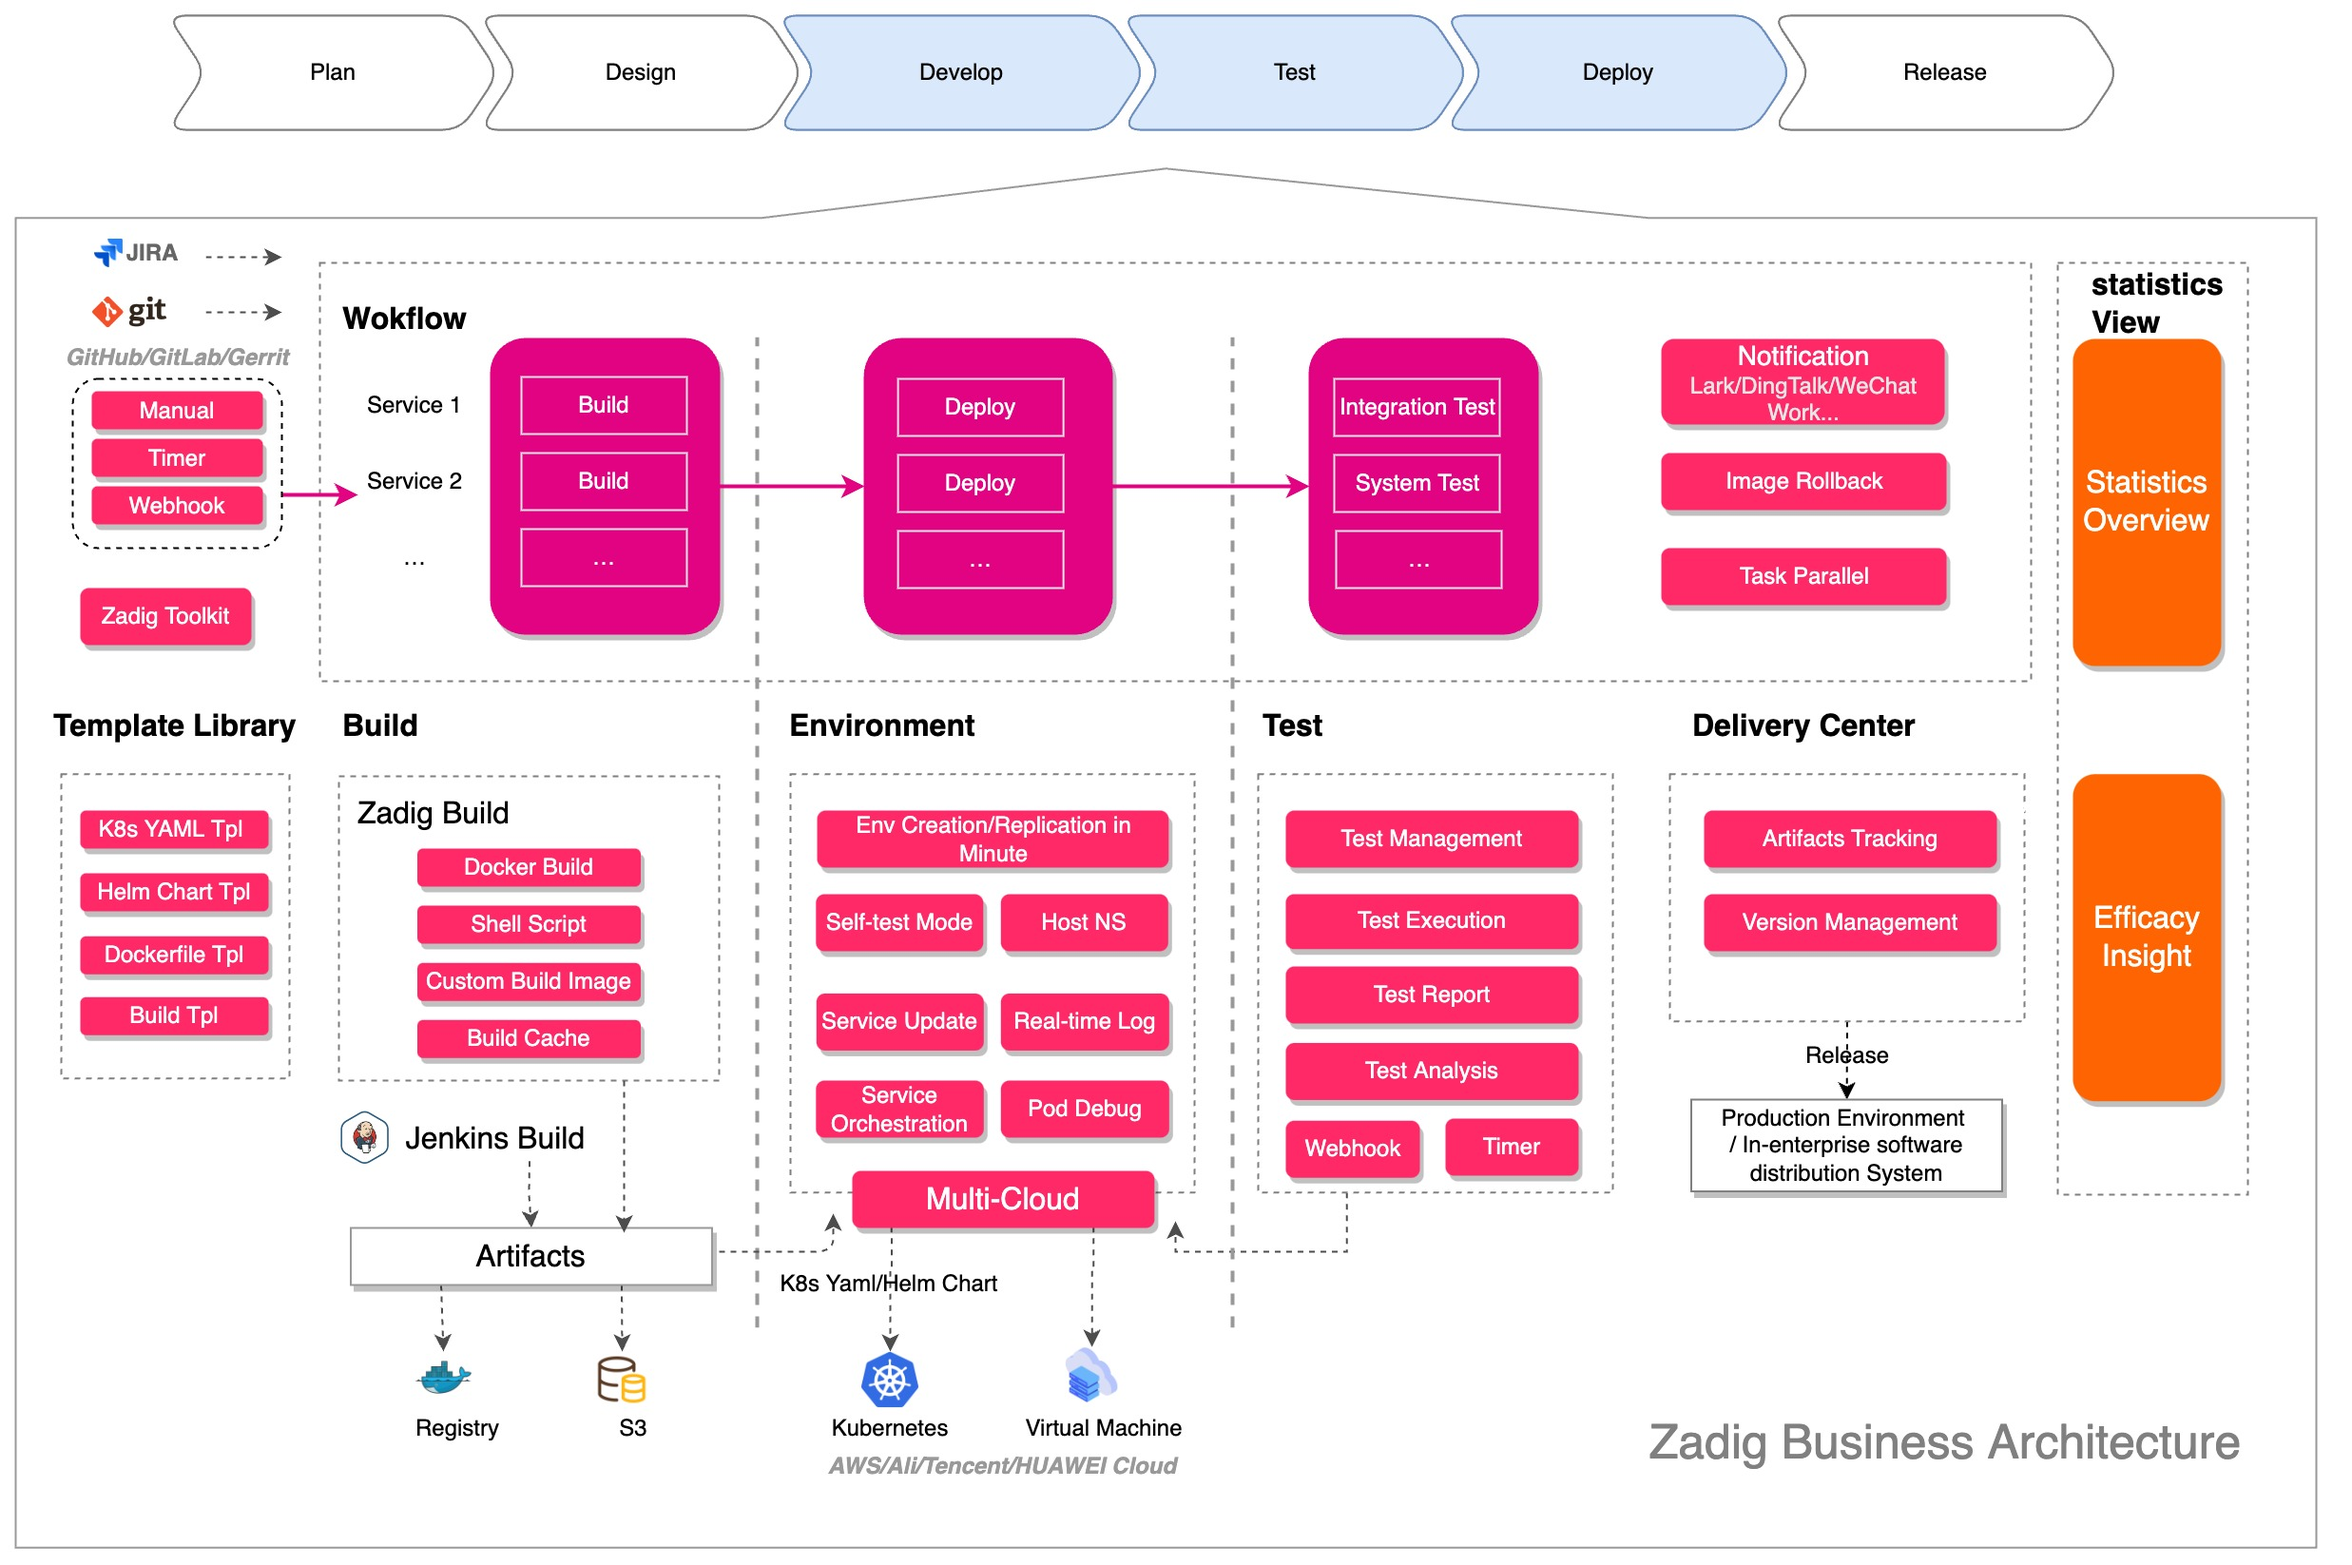
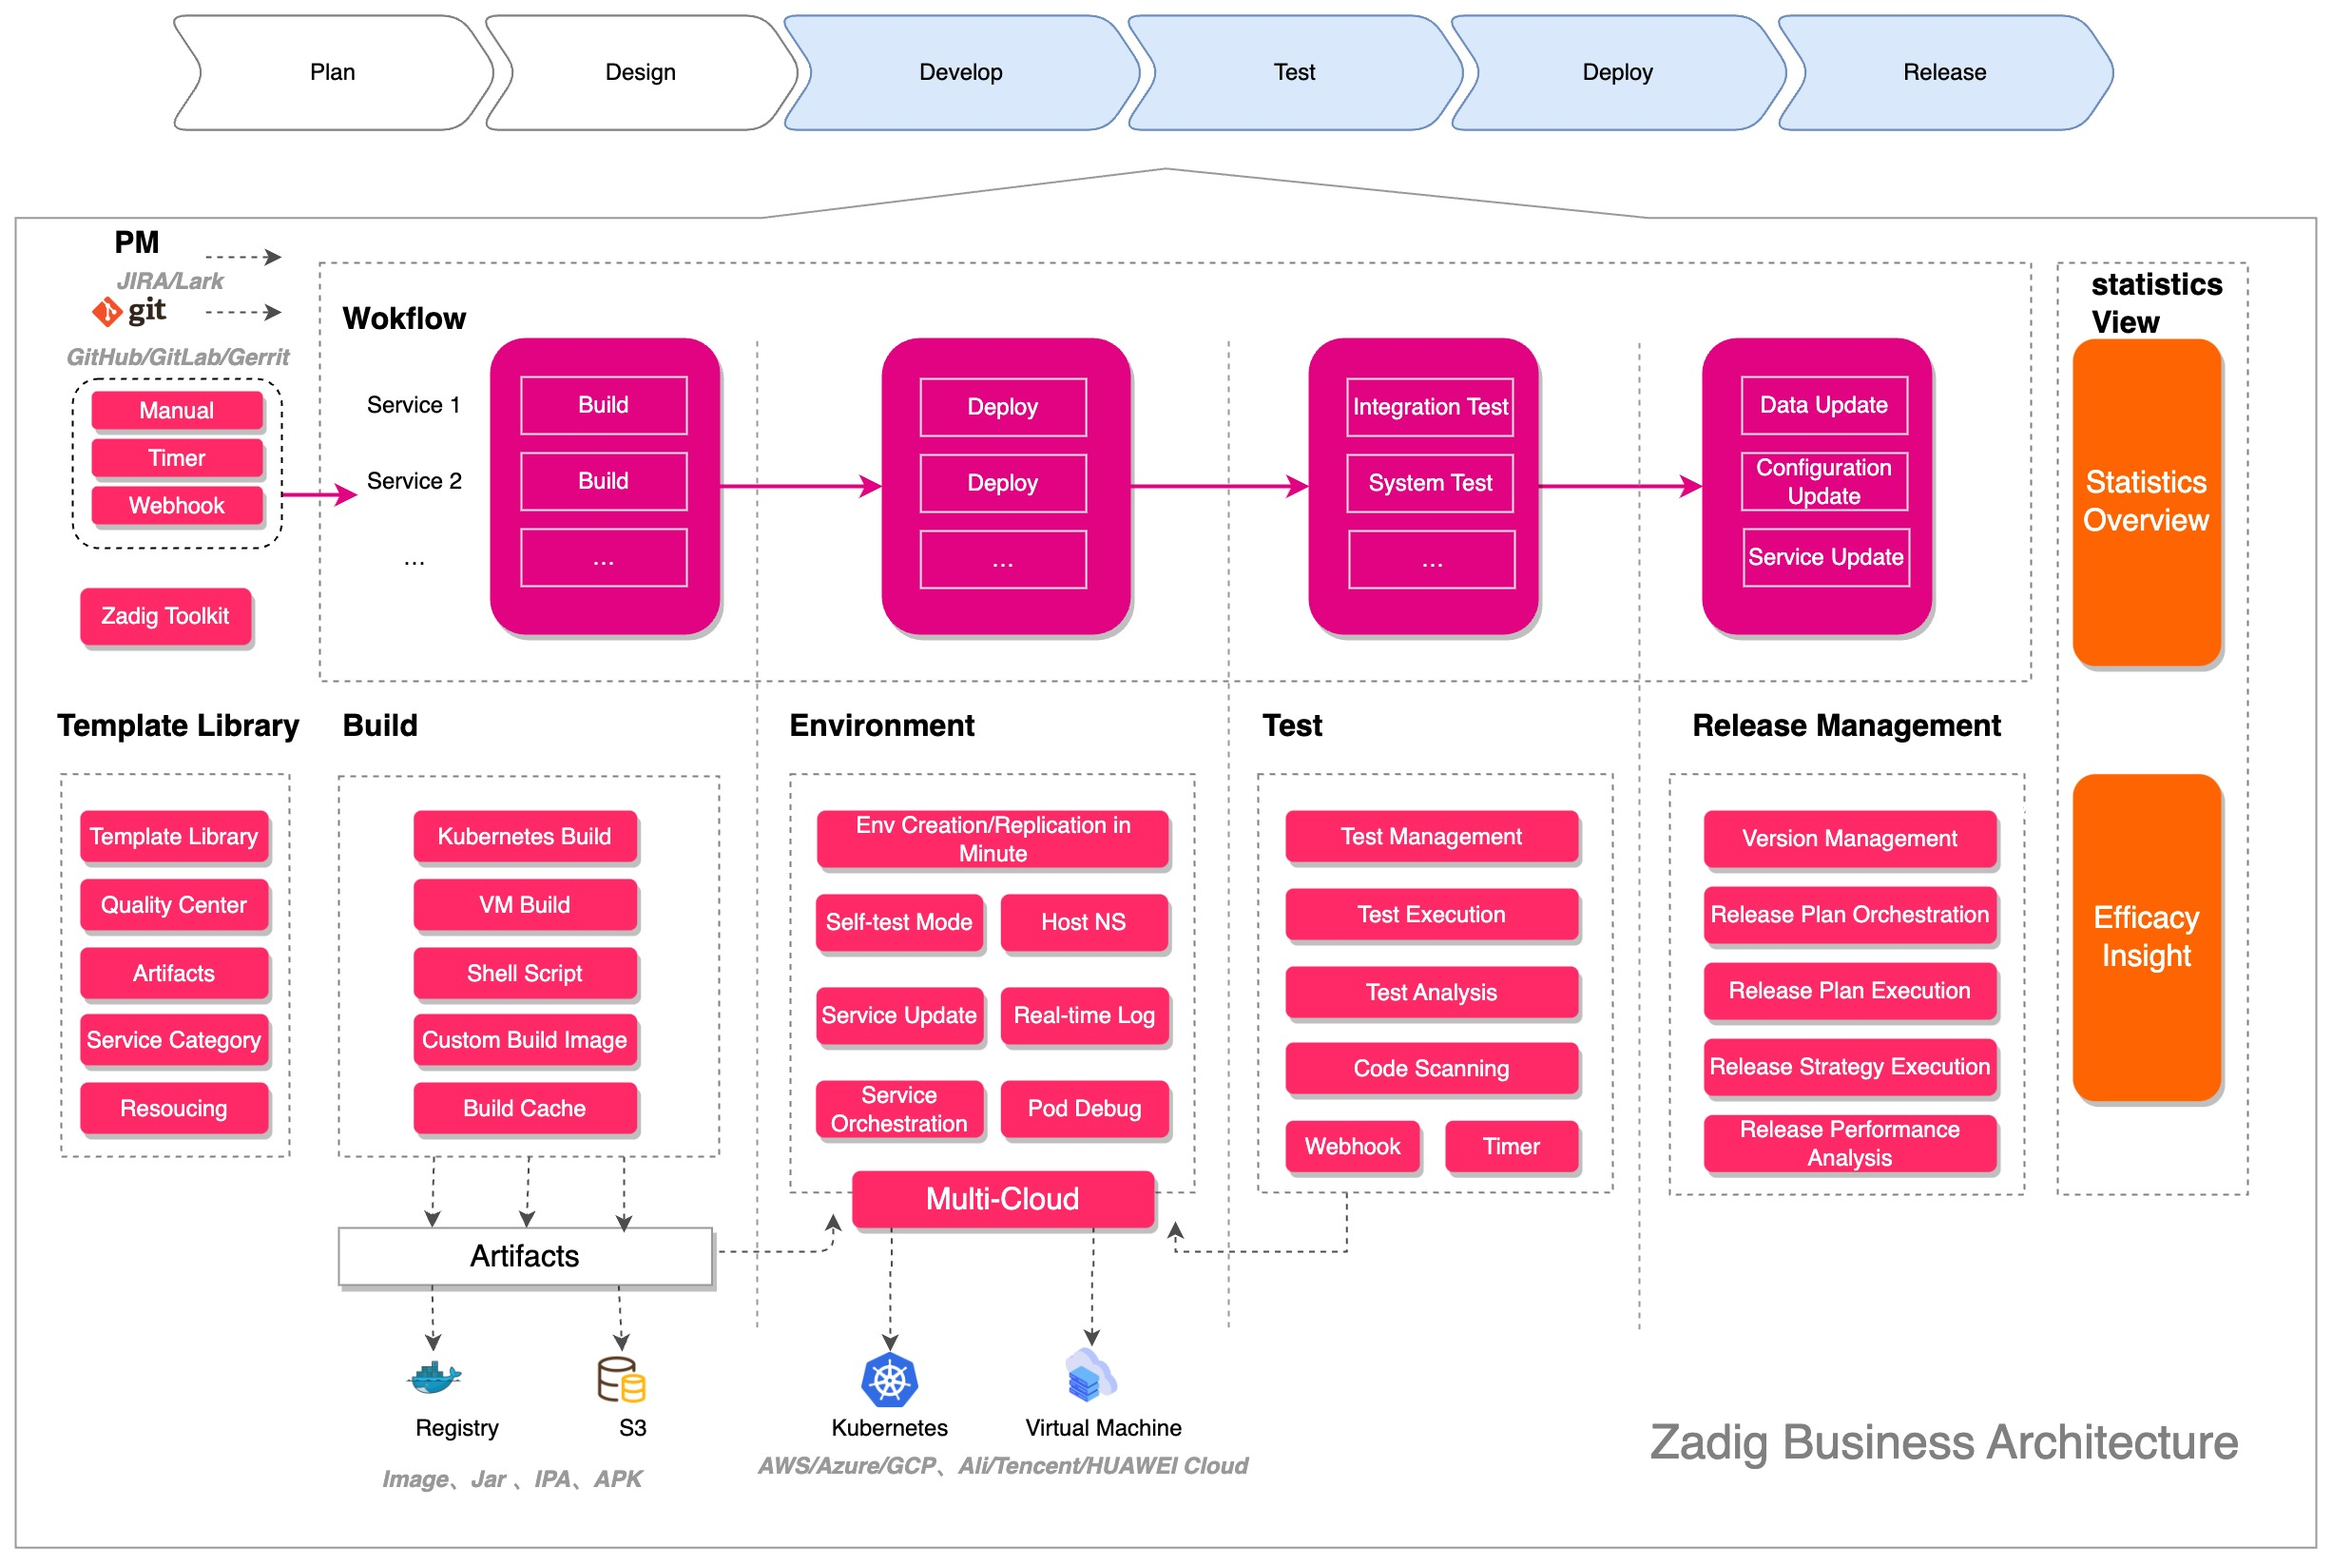
modify README

diff --git a/README.md b/README.md
@@ -37,9 +37,10 @@
 
 ## What is Zadig
 
-Zadig is an open-source, distributed, cloud-native CD (Continuous Delivery) product designed for developers. Zadig not only provides high-availability CI/CD capabilities, but also provides cloud-native operating environments, supports developers' local debugging, parallel build and deployment of microservices, integration testing, etc. .
+Zadig is a self-service, cloud-native DevOps platform based on Kubernetes developed by KodeRover. Zadig is available in Basic and Professional editions, and offers flexible and scalable workflow support, multiple release policy orchestration, and one-click security auditing. The platform also supports customized enterprise XOps agile performance dashboards, deep integration with multiple enterprise platforms, and rapid batch access through project templating to achieve one-click governance of thousands of services.
 
-Zadig is non-invasive, it does not exclude any of your existing development process. Instead it can easily integrate with Github/Gitlab, Jenkins and many other cloud vendors in a seamless way. We strive for the 10x optimal developer experience with the lowest maintenance cost possible.
+Its main goal is to help enterprises realize the digital transformation of production and research, enable engineers to become innovation engines, and provide support for the unlimited value links of the digital economy.
+
 
 > Our vision is: Developer + Zadig = Business success
 
@@ -69,6 +70,26 @@ The Highlighted Features:
   Zadig can easily and non-intrusively embed existing testing automation frameworks, and achieve continuous building, testing and deployment via GitHub/GitLab Webhook.
 
   It also integrates with productivity bots to provide instant quality report, which effectively applies shift-left testing best practices.
+  </details>
+
+<details>
+  <summary><b>Powerful Template Library</b></summary>
+  Shared K8s YAML templates, Helm Chart templates, build templates, etc., across projects to achieve unified configuration management. Based on a set of templates, hundreds of microservices can be created, and with minimal configuration by development engineers, self-service usage is enabled, significantly reducing the burden of operations and maintenance management.
+  </details>
+
+<details>
+  <summary><b>Secure and Reliable Release Management</b></summary>
+  Customized workflows that integrate engineer, process, and internal and external system compliance approvals, supporting flexible orchestration of deployment strategies such as blue-green deployment, canary release, phased gray release, and Istio release. Presenting the state of the production environment from a multi-cluster, multi-project perspective, it achieves transparency and reliability in the release process.
+  </details>
+
+<details>
+ <summary><b>Stable and Efficient Customer Delivery</b></summary>
+  Simplify the implementation process for vendors to customer versions, customer private clouds, public clouds, and offline environments, as well as product license management. The supplier management plane collaborates with the customer console to complete the implementation, update, and maintenance process for customer environments, enhancing the quality of external services provided by the enterprise.
+ </details>
+
+<details>
+  <summary><b>Objective and Accurate Performance Insights</b></summary>
+  Comprehensive understanding of the system's operational status, including data overviews on clusters, projects, environments, workflows, and key process pass rates. It provides objective performance metrics data for various aspects like builds, tests, and deployments at the project level, enabling precise analysis of development efficiency bottlenecks and promoting steady improvement.
   </details>
 
 <details>

diff --git a/README-zh-CN.md b/README-zh-CN.md
@@ -1,6 +1,6 @@
 <p><a href="https://github.com/koderover/zadig-doc" target="_blank" rel="noopener noreferrer"><img height="50" src="https://docs.koderover.com/zadig/img/zadig.png" alt="Zadig logo"></a></p>
 
-<h3 align="left">开源分布式持续交付产品</h3>
+<h3 align="left">面向开发者自助式云原生 DevOps 平台</h3>
 
 <span align="left">
 
@@ -36,7 +36,7 @@
 
 ## Zadig 介绍
 
-Zadig 是 KodeRover 公司基于 Kubernetes 自主设计、研发的开源分布式持续交付 (Continuous Delivery) 产品，具备灵活易用的高并发工作流、面向开发者的云原生环境、高效协同的测试管理、强大免运维的模板库、客观精确的效能洞察以及云原生 IDE 插件等重要特性，为工程师提供统一的协作平面。Zadig 内置了 K8s YAML、Helm Chart、主机等复杂场景最佳实践，适用大规模微服务、高频高质量交付等场景。我们的目标是通过云原生技术的运用和工程产品赋能，打造极致、高效、愉悦的开发者工作体验，让工程师成为企业创新的核心引擎。
+Zadig 是由 KodeRover 公司基于 Kubernetes 研发的自助式云原生 DevOps 平台。Zadig 分为基础版和专业版，提供灵活可扩展的工作流支持、多种发布策略编排以及一键安全审核等特性。该平台还支持定制的企业级 XOps 敏捷效能看板，深度集成多种企业级平台，并通过项目模板化批量快速接入，实现数千个服务的一键纳管治理。其主要目标是帮助企业实现产研的数字化转型，使工程师成为创新引擎，并为数字经济的无限价值链接提供支持。
 
 
 我们的愿景：`工程师 + Zadig = 商业上的成功`
@@ -64,17 +64,27 @@ Zadig 是 KodeRover 公司基于 Kubernetes 自主设计、研发的开源分布
   便捷对接 Jmeter、Pytest 等主流测试框架，跨项目管理和沉淀 UI、API、E2E 测试用例资产。通过工作流，向开发者提供前置测试验证能力。通过持续测试和质量分析，充分释放测试价值。
   </details>
 
-  <details>
+<details>
   <summary><b>强大免运维的模板库</b></summary>
   跨项目共享 K8s YAML 模板、Helm Chart 模板、构建模板等，实现配置的统一化管理。基于一套模板可创建数百微服务，开发工程师少量配置可自助使用，大幅降低运维管理负担。
   </details>
 
-  <details>
+<details>
+  <summary><b>安全可靠的发布管理</b></summary>
+  自定义工作流打通人、流程、内外部系统合规审批，支持灵活编排蓝绿、金丝雀、分批次灰度、Istio 等发布策略。通过多集群、多项目视角呈现生产环境的状态，实现发布过程的透明可靠。
+  </details>
+
+<details>
+ <summary><b>稳定高效的客户交付</b></summary>
+  简化供应商对客户版本、客户私有云、公有云、离线环境的产品实施过程以及产品许可证的管理。供应商管理平面联动客户控制台完成对客户环境实施、更新、维护过程，提升企业对外服务质量。
+ </details>
+
+<details>
   <summary><b>客观精确的效能洞察</b></summary>
   全面了解系统运行状态，包括集群、项目、环境、工作流，关键过程通过率等数据概览。提供项目维度的构建、测试、部署等客观的效能度量数据，精准分析研发效能短板，促进稳步提升。
   </details>
 
-  <details>
+<details>
   <summary><b>云原生 IDE 插件</b></summary>
   开发者无需平台切换，在 VScode IDE 中即可获得 Zadig 产品核心能力。编写代码后，无需打包镜像，即可一键热部署到自测环境，快速完成自测、联调和集成验证，开发效率倍增。
   </details>
